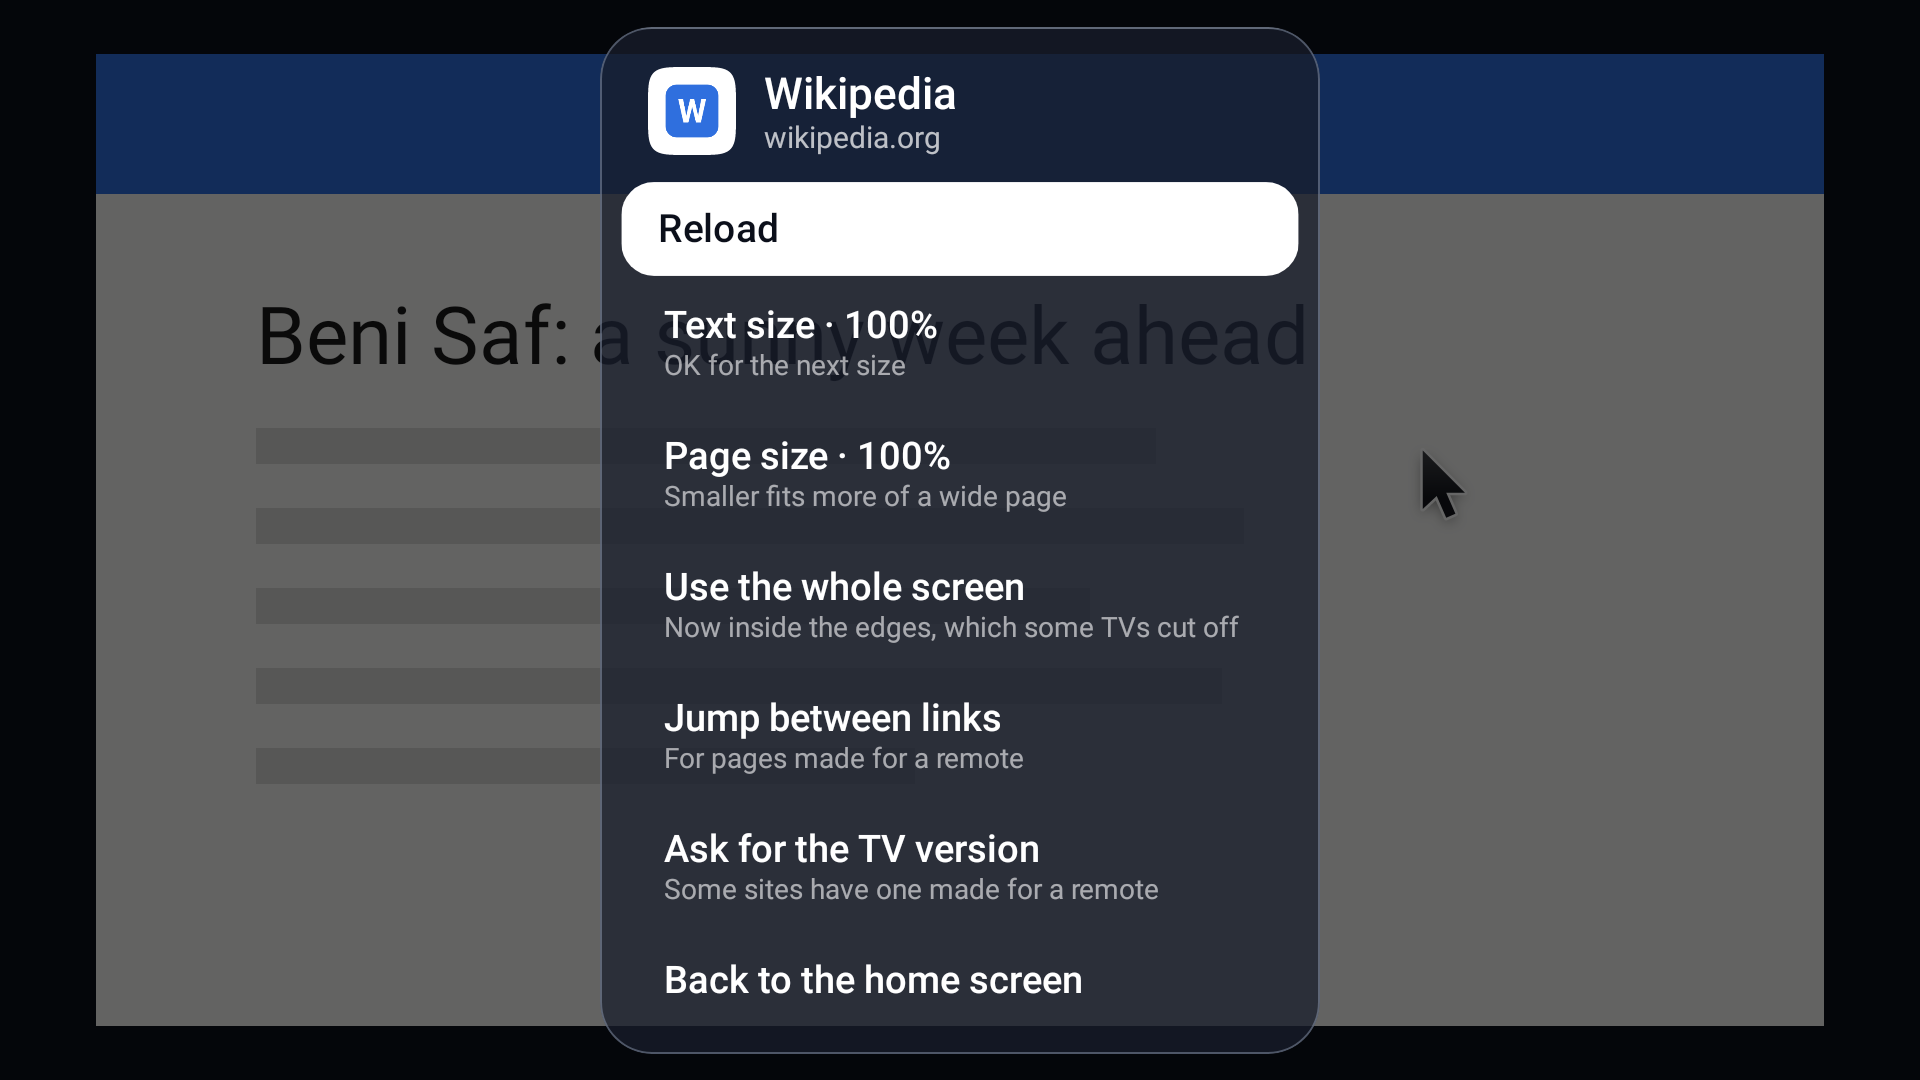
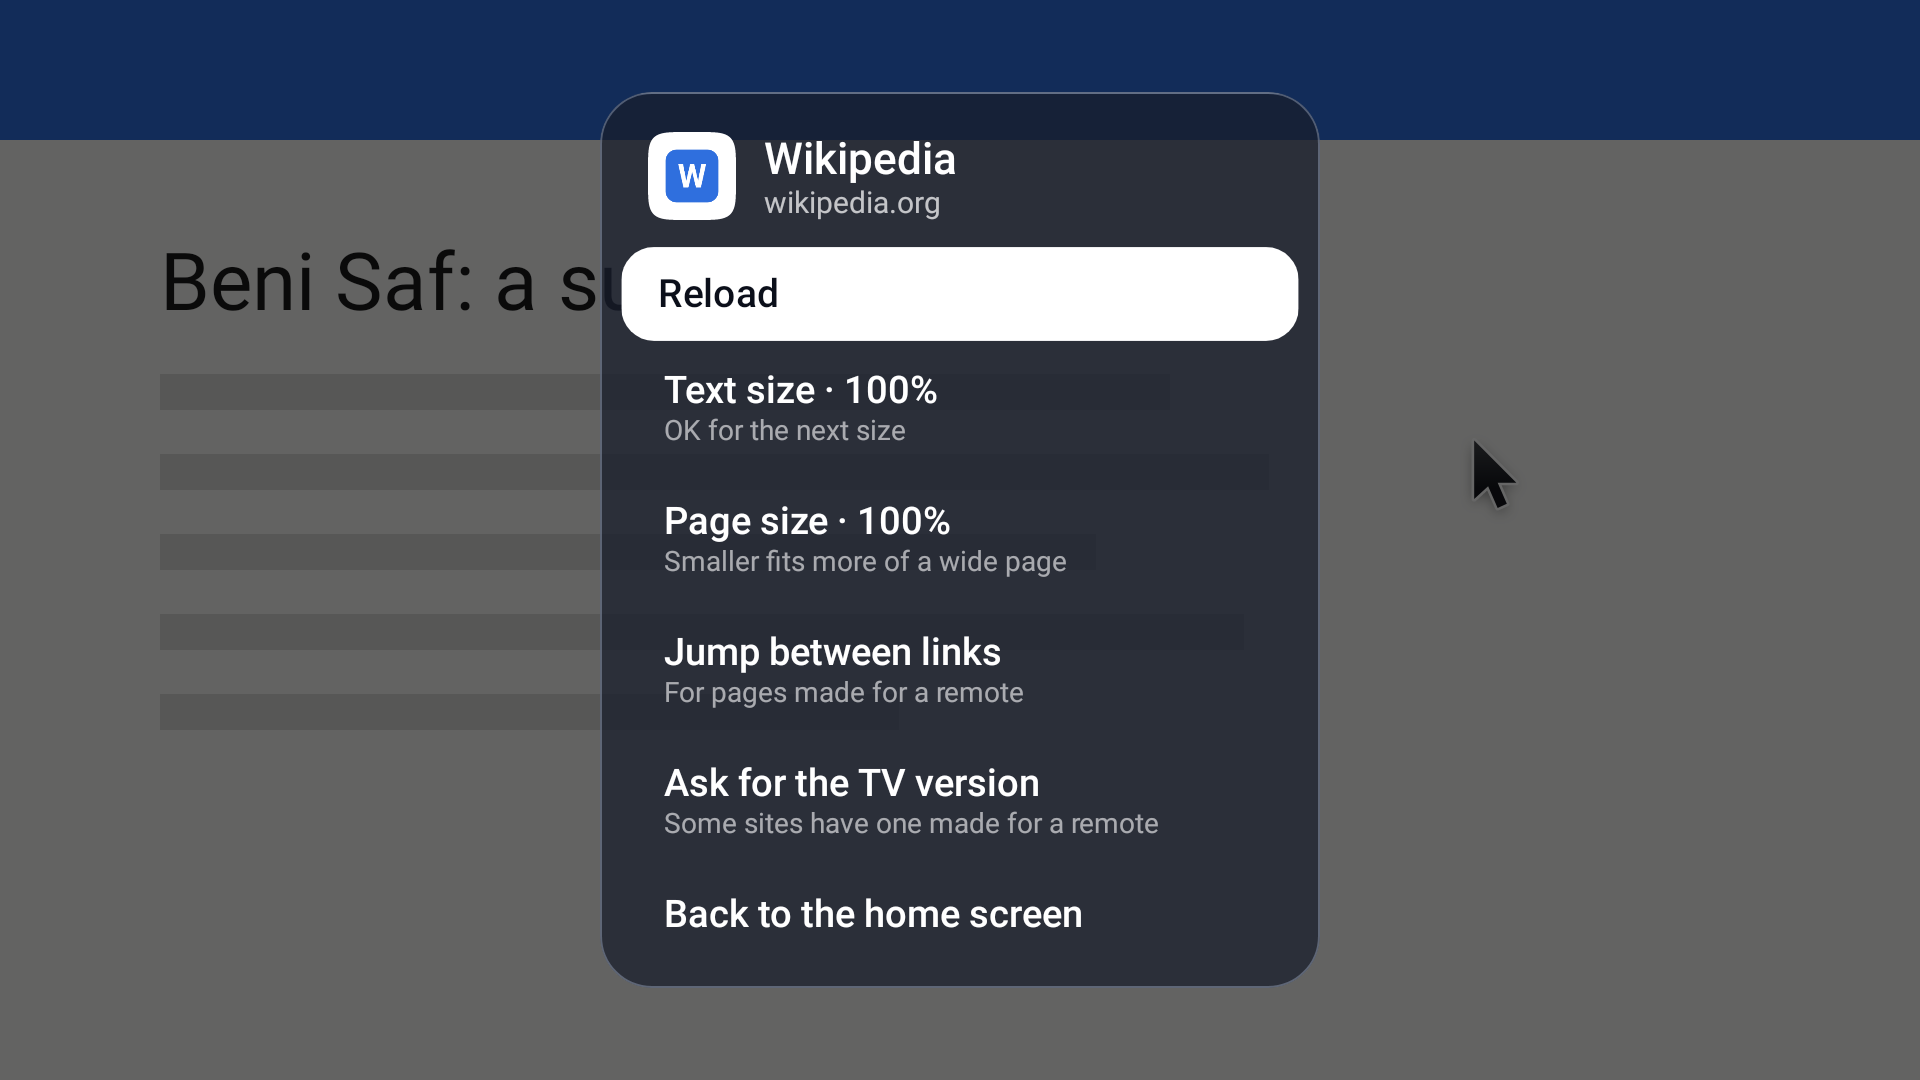
4.1.3: websites edge to edge
Pages are fitted to the screen now, so the margin round them (and Use the
whole screen) is gone.

Claude-Session: https://claude.ai/code/session_01K2a1gPavAD836buEZXZJS4

diff --git a/app/src/main/java/app/pill/launcher/ui/WebAppPage.kt b/app/src/main/java/app/pill/launcher/ui/WebAppPage.kt
@@ -327,9 +327,8 @@ fun WebAppPage(viewer: WebViewer, icon: ImageBitmap?, modifier: Modifier = Modif
         if (viewer.moving) while (isActive) withFrameNanos { viewer.tick(it) }
     }
     Box(modifier.fillMaxSize().background(Palette.Ink)) {
-        // The page keeps the launcher's own margin (clear of edges older TVs cut off) unless asked not to
-        val inset = if (s.safeEdges && !viewer.fullscreen) Modifier.padding(horizontal = 48.dp, vertical = 27.dp) else Modifier
-        Box(Modifier.fillMaxSize().then(inset).background(Color.White).onSizeChanged { viewer.size = it }) {
+        // The page fills the screen, fitted to it edge to edge
+        Box(Modifier.fillMaxSize().background(Color.White).onSizeChanged { viewer.size = it }) {
             page()
             if (viewer.progress in 1..99 && !viewer.fullscreen) {
                 Box(Modifier.fillMaxWidth(viewer.progress / 100f).height(4.dp).background(WebAccent))
@@ -391,8 +390,6 @@ fun WebAppPage(viewer: WebViewer, icon: ImageBitmap?, modifier: Modifier = Modif
                     MenuChoice(tr("Reload")) { viewer.reloadPage() },
                     MenuChoice(tr("Text size · %1\$s%%", s.textZoom), tr("OK for the next size")) { viewer.change(s.copy(textZoom = nextTextZoom(s.textZoom))) },
                     MenuChoice(tr("Page size · %1\$s%%", s.pageZoom), tr("Smaller fits more of a wide page")) { viewer.change(s.copy(pageZoom = nextPageZoom(s.pageZoom))) },
-                    if (s.safeEdges) MenuChoice(tr("Use the whole screen"), tr("Now inside the edges, which some TVs cut off")) { viewer.change(s.copy(safeEdges = false)) }
-                    else MenuChoice(tr("Keep clear of the screen's edges"), tr("For TVs that cut off the picture's edges")) { viewer.change(s.copy(safeEdges = true)) },
                     if (s.pointer) MenuChoice(tr("Jump between links"), tr("For pages made for a remote")) { viewer.change(s.copy(pointer = false)) }
                     else MenuChoice(tr("Use the pointer"), tr("Arrows move it, OK clicks")) { viewer.change(s.copy(pointer = true)) },
                     MenuChoice(

diff --git a/app/src/main/java/app/pill/launcher/Links.kt b/app/src/main/java/app/pill/launcher/Links.kt
@@ -44,8 +44,6 @@ data class WebShortcut(
     val pointer: Boolean = true,
     /** How big the page is drawn, in percent: under 100 fits more of a wide page on screen. */
     val pageZoom: Int = 100,
-    /** Keep the page inside the margin the launcher keeps, clear of edges older TVs cut off. */
-    val safeEdges: Boolean = true,
 ) {
     val pkg: String get() = WebPrefix + id
 }
@@ -240,7 +238,7 @@ fun webShortcutsJson(list: List<WebShortcut>): String = JSONArray().apply {
         JSONObject()
             .put("id", s.id).put("name", s.name).put("url", s.url)
             .put("tv", s.tvVersion).put("zoom", s.textZoom).put("pointer", s.pointer)
-            .put("page", s.pageZoom).put("edges", s.safeEdges),
+            .put("page", s.pageZoom),
     )
 }.toString()
 
@@ -257,7 +255,6 @@ fun parseWebShortcuts(json: String?): List<WebShortcut> = runCatching {
             textZoom = o.optInt("zoom", 100).coerceIn(100, 175),
             pointer = o.optBoolean("pointer", true),
             pageZoom = o.optInt("page", 100).coerceIn(PageZooms.last(), 100),
-            safeEdges = o.optBoolean("edges", true),
         )
     }
 }.getOrDefault(emptyList())

diff --git a/app/src/test/java/app/pill/launcher/DataTest.kt b/app/src/test/java/app/pill/launcher/DataTest.kt
@@ -1274,7 +1274,7 @@ class DataTest {
     /** Web shortcuts keep their settings through the settings file; broken ones are dropped. */
     @Test
     fun webShortcutsAreKept() {
-        val list = listOf(WebShortcut("a1", "Tube", "https://tube.example/tv", tvVersion = true, textZoom = 150, pointer = false, pageZoom = 80, safeEdges = false), WebShortcut("b2", "News", "https://news.example/"))
+        val list = listOf(WebShortcut("a1", "Tube", "https://tube.example/tv", tvVersion = true, textZoom = 150, pointer = false, pageZoom = 80), WebShortcut("b2", "News", "https://news.example/"))
         assertEquals(list, parseWebShortcuts(webShortcutsJson(list)))
         assertEquals(list.take(1), parseWebShortcuts(webShortcutsJson(list).replace("news.example", "news example")))
         assertEquals(emptyList<WebShortcut>(), parseWebShortcuts("nonsense"))

diff --git a/README.md b/README.md
@@ -92,13 +92,13 @@ Below are the web shortcuts made so far; **OK** twice on one removes it.
 <table>
   <tr>
     <td width="50%"><img src="docs/screenshots/settings-add-link.png" alt="Settings, Add an app or website: the link field, Check this link and a note about sending links from a phone; under What it is, Wikipedia, Website, wikipedia.org with its icon, and Add to the home screen focused, A tile in Favorites that opens the site full screen"><br><sub><b>Add an app or website</b>: a checked link and what OK on it does.</sub></td>
-    <td width="50%"><img src="docs/screenshots/web-viewer.png" alt="A website on the whole screen but a dark margin round it (a stand-in page from the tests: a blue header, a headline about Beni Saf and grey lines of text) with an arrow pointer, dark with a white edge, right of the middle"><br><sub><b>A website</b>: the arrows glide the pointer and OK clicks; the margin keeps it clear of edges a TV cuts off.</sub></td>
+    <td width="50%"><img src="docs/screenshots/web-viewer.png" alt="A website filling the screen (a stand-in page from the tests: a blue header, a headline about Beni Saf and grey lines of text) with an arrow pointer, dark with a white edge, right of the middle"><br><sub><b>A website</b>: fitted to the screen; the arrows glide the pointer and OK clicks.</sub></td>
   </tr>
 </table>
 
-**The web viewer.** A website opens full screen, with no browser bar, like an app. The arrows move a pointer, an arrow like a computer's (drawn as a smooth shape, so it stays sharp), and **OK** clicks where its tip is; a click presses it in for a moment. It glides rather than jumps: held, it sets off slowly enough to land on a small link and smoothly speeds up to cross the screen in about a second, a quick tap moves it a little, and at the edge of the screen the page scrolls instead. The page keeps the same margin as the launcher's own screens, since many TVs (older ones especially) cut off the edges of the picture, and it is fitted to that space: every site is laid out as on a laptop screen (1280 web pixels wide) and that whole width is scaled to fit, so nothing runs off the side; anything a site makes wider still is zoomed out until it fits. **Back** goes back a page, and leaves from the site's first page; **Home** leaves it waiting in the TV's recent apps. Holding **OK** (or pressing **Menu**) opens the viewer's menu: **Reload**, **Text size** (100% to 175%), **Page size** (100% is a laptop's width; down to 67% lays the page out as on a full-HD screen, everything smaller), **Use the whole screen** (for a TV that shows the picture's edges), **Jump between links** for pages made for a remote (the arrows then go from link to link), **Ask for the TV version** (some sites have a layout made for TVs; YouTube's is at `youtube.com/tv`) and **Back to the home screen**. Each site keeps these choices and stays signed in. A video's full-screen button fills the screen, and **Back** leaves full screen. When a page offers an app to download, it arrives in the notification bar to install as above.
+**The web viewer.** A website opens full screen, with no browser bar, like an app. The arrows move a pointer, an arrow like a computer's (drawn as a smooth shape, so it stays sharp), and **OK** clicks where its tip is; a click presses it in for a moment. It glides rather than jumps: held, it sets off slowly enough to land on a small link and smoothly speeds up to cross the screen in about a second, a quick tap moves it a little, and at the edge of the screen the page scrolls instead. The page fills the screen and is fitted to it: every site is laid out as on a laptop screen (1280 web pixels wide) and that whole width is scaled to fit, so nothing runs off the side; anything a site makes wider still is zoomed out until it fits. **Back** goes back a page, and leaves from the site's first page; **Home** leaves it waiting in the TV's recent apps. Holding **OK** (or pressing **Menu**) opens the viewer's menu: **Reload**, **Text size** (100% to 175%), **Page size** (100% is a laptop's width; down to 67% lays the page out as on a full-HD screen, everything smaller), **Jump between links** for pages made for a remote (the arrows then go from link to link), **Ask for the TV version** (some sites have a layout made for TVs; YouTube's is at `youtube.com/tv`) and **Back to the home screen**. Each site keeps these choices and stays signed in. A video's full-screen button fills the screen, and **Back** leaves full screen. When a page offers an app to download, it arrives in the notification bar to install as above.
 
-<p align="center"><img src="docs/screenshots/web-viewer-menu.png" width="70%" alt="The viewer's menu over the dimmed page: Wikipedia and wikipedia.org with its icon, then Reload, Text size 100%, Page size 100%, Use the whole screen, Jump between links, Ask for the TV version and Back to the home screen"></p>
+<p align="center"><img src="docs/screenshots/web-viewer-menu.png" width="70%" alt="The viewer's menu over the dimmed page: Wikipedia and wikipedia.org with its icon, then Reload, Text size 100%, Page size 100%, Jump between links, Ask for the TV version and Back to the home screen"></p>
 
 **What it can't do.** Streaming services such as Netflix usually refuse to play inside an app's built-in browser: install their TV apps instead (a Play Store link does that). A plain `http://` address is opened as `https://`, since the TV only loads secure pages. Some sites stay awkward with a remote even with the pointer.
 
@@ -277,7 +277,7 @@ On TVs that ignore that command, turning off the stock launcher works too (turn 
 
 The `latest` release is rebuilt automatically every time `main` changes, so installing it again always gets you the newest version.
 
-Every version also keeps its own release, named after it (**Pill Launcher 4.1.2**, tag `v4.1.2`, file `pill-launcher-4.1.2.apk`), so an older version stays downloadable: `https://github.com/S1rHades/One-TVOS/releases/download/v4.1.2/pill-launcher-4.1.2.apk`. The newest is titled **Pill Launcher 4.1.2 (latest)** and holds the same file under its version's name, plus `launcher.apk`, the copy behind the link above that never changes. Releases from 2.5 on are kept; older ones weren't saved.
+Every version also keeps its own release, named after it (**Pill Launcher 4.1.3**, tag `v4.1.3`, file `pill-launcher-4.1.3.apk`), so an older version stays downloadable: `https://github.com/S1rHades/One-TVOS/releases/download/v4.1.3/pill-launcher-4.1.3.apk`. The newest is titled **Pill Launcher 4.1.3 (latest)** and holds the same file under its version's name, plus `launcher.apk`, the copy behind the link above that never changes. Releases from 2.5 on are kept; older ones weren't saved.
 
 ### Backing up your settings
 
@@ -313,7 +313,7 @@ If the launcher won't open, use the TV's own **Settings → Apps → Pill Launch
 | Add a website or an app from a link | **Settings → Home screen → Add an app or website**, or **Send a link** on the phone's Files page |
 | In a website: move the pointer, click, scroll | Arrows, **OK**; at the screen's edge the arrows scroll |
 | In a website: back a page, or leave it | **Back** (from its first page, Back leaves) |
-| In a website: reload, text size, page size, whole screen, links mode, TV version | Hold **OK**, or press **Menu** (☰) |
+| In a website: reload, text size, page size, links mode, TV version | Hold **OK**, or press **Menu** (☰) |
 | Remove a web shortcut | Hold **OK** on its tile → **Remove shortcut**, or **OK** twice on it in Add an app or website |
 | See all apps | **Down** from Favorites |
 | Show only video, music or game apps | **Down** to the chips above All apps, **Left** / **Right**, then **OK** |
@@ -472,7 +472,7 @@ gradle :app:testDebugUnitTest --tests '*Screenshots*'  # re-render docs/screensh
 
 **Text and translations.** The code is written in English: anything shown on screen goes through `tr("…")` (with `%1$s`, `%2$s` for values), and `Translations.kt` gives the French and the Arabic for each English text. A test (`everyTextIsTranslated`) reads the source and fails the build when a text has no translation or a translation has the wrong places for its values, so a new text can't ship in English only. Titles that enums carry (widget names, settings pages) translate when read. Rows that run with the reading direction use `rowStep()` for Left / Right, so they work right to left.
 
-**Builds are automated.** `.github/workflows/build.yml` runs every test and then builds the APK for every pull request and push, so a failing test stops a release; builds of `main` publish a release for the version in `app/build.gradle.kts` (for example `v4.1.2`) and replace the `latest` release. `.github/workflows/screenshots.yml` re-renders the README screenshots at 1920×1080 and commits them; it runs on pushes that change the app, or from the Actions tab. `.github/scripts/check_readme.py` fails the build when this README falls behind the app: a picture that doesn't exist, a rendered screenshot that isn't shown, a source file missing from Architecture, or a version it doesn't name.
+**Builds are automated.** `.github/workflows/build.yml` runs every test and then builds the APK for every pull request and push, so a failing test stops a release; builds of `main` publish a release for the version in `app/build.gradle.kts` (for example `v4.1.3`) and replace the `latest` release. `.github/workflows/screenshots.yml` re-renders the README screenshots at 1920×1080 and commits them; it runs on pushes that change the app, or from the Actions tab. `.github/scripts/check_readme.py` fails the build when this README falls behind the app: a picture that doesn't exist, a rendered screenshot that isn't shown, a source file missing from Architecture, or a version it doesn't name.
 
 <details>
 <summary><b>Architecture</b></summary>

diff --git a/CHANGELOG.md b/CHANGELOG.md
@@ -3,6 +3,10 @@
 Pill Launcher is built from `main` on every change; the newest build is always the
 [`latest` release](https://github.com/S1rHades/One-TVOS/releases/tag/latest).
 
+## 4.1.3 (November 2026)
+
+- **Websites edge to edge**: now that pages are fitted to the screen, the margin round them is gone (and with it **Use the whole screen**): a site fills the TV.
+
 ## 4.1.2 (November 2026)
 
 - **Websites fit the TV**: every page is laid out as on a laptop screen (1280 web pixels wide) and scaled so that whole width fills the viewer, whatever size the site asks for; anything still wider is zoomed out until it fits. Sites no longer run off the right of the screen or below it. **Page size** now lays the page out wider (up to a full-HD screen's 1920 at 67%), so everything is smaller.
